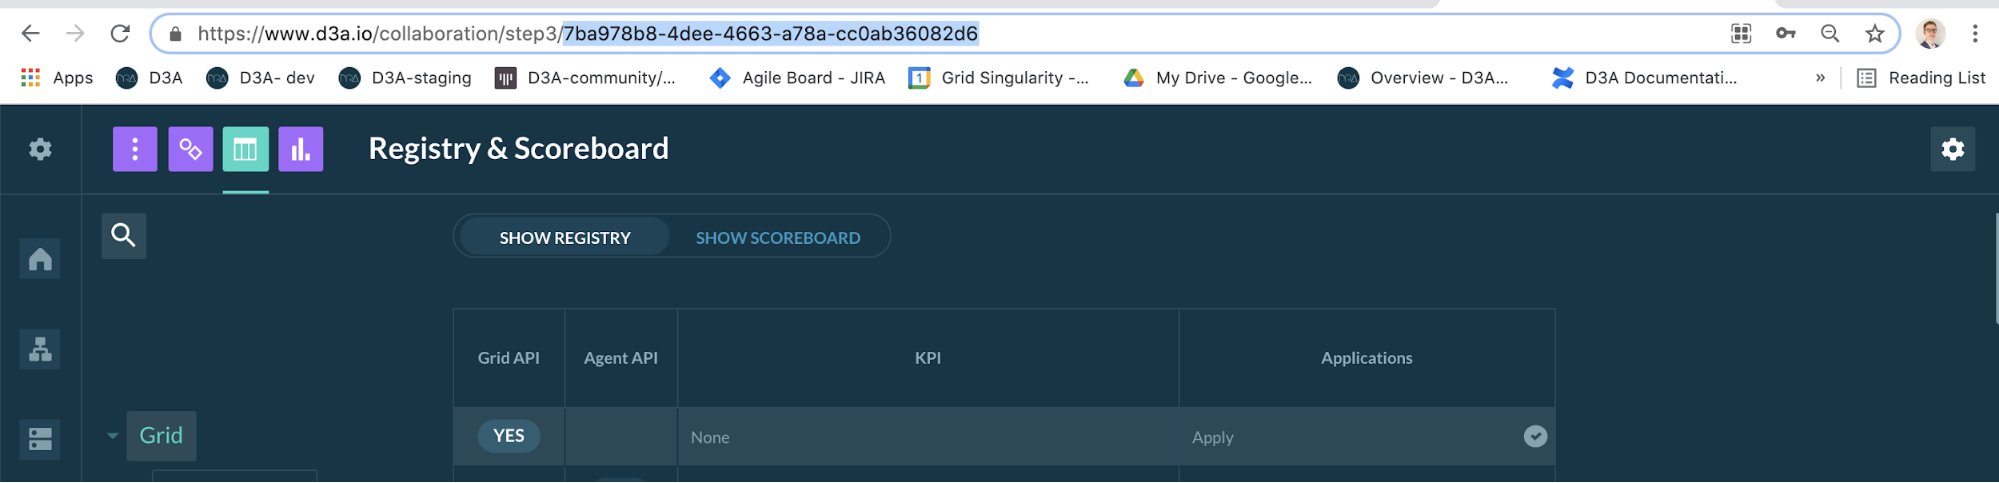
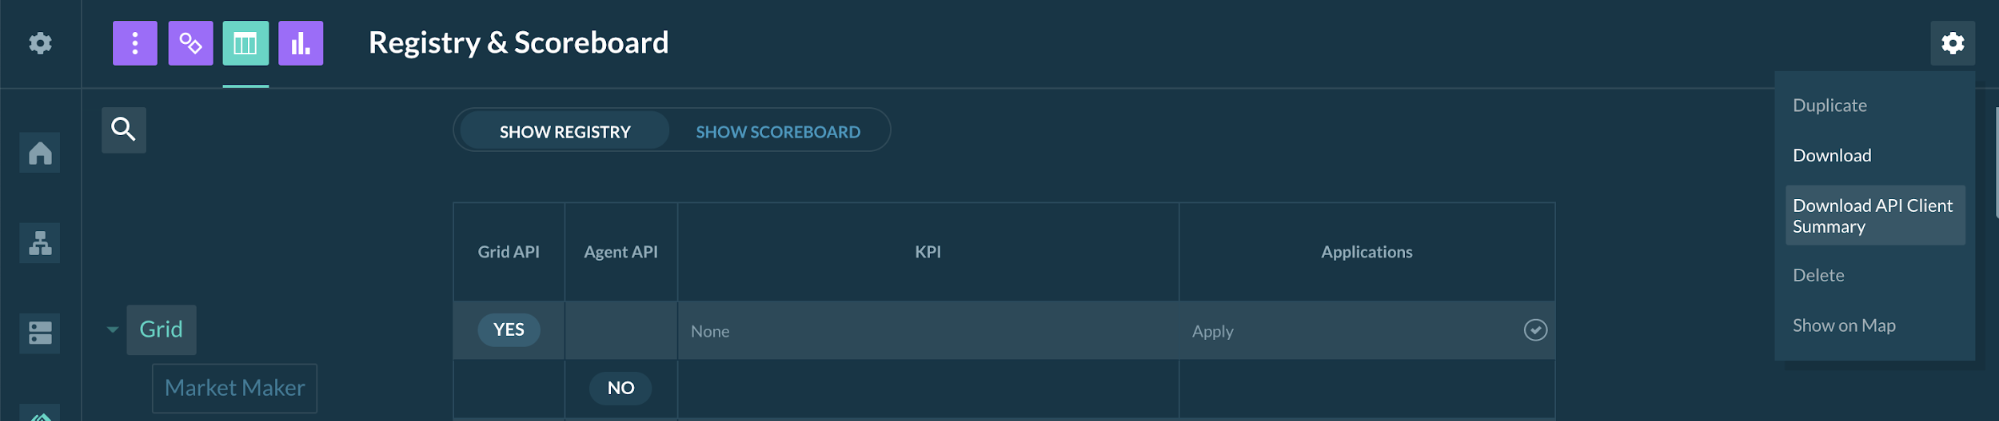
Deployed 34ab02a1 with MkDocs version: 1.0.4

diff --git a/api-overview/index.html b/api-overview/index.html
@@ -1583,7 +1583,7 @@
                 
                 <h2 id="definition">Definition<a class="headerlink" href="#definition" title="Permanent link">&para;</a></h2>
 <p>To enable users to interact with a running collaboration or a canary test network, two different application interfaces (APIs) are available. The <a href="../assets-api/">Asset API</a> allows the user to manage multiple energy assets by implementing custom trading strategies. The <a href="../grid-operator-api/">Grid Operator API</a> allows the user to manage multiple markets by implementing custom grid fee strategies. Both interfaces allow strategies to incorporate market and asset statistics. Two examples of template API scripts are available in the Grid Singularity’s GitHub repository: <a href="https://github.com/gridsingularity/d3a/blob/master/src/d3a/setup/odyssey_momentum/assets_api_template.py">Asset API</a> and <a href="https://github.com/gridsingularity/d3a/blob/master/src/d3a/setup/odyssey_momentum/markets_api_template.py">Grid Operator API</a>.  These two APIs interact with Grid Singularity simulations through the open source Grid Singularity’s <a href="https://github.com/gridsingularity/d3a-api-client">API client</a>. </p>
-<p><img alt="alt_text" src="../img/api-overview-0.png" /></p>
+<p><img alt="alt_text" src="../img/api-overview-1.png" /></p>
 <h2 id="api-client-installation">API Client Installation<a class="headerlink" href="#api-client-installation" title="Permanent link">&para;</a></h2>
 <p><em>Note:</em> If you are running the Grid Singularity energy exchange engine (D3A) using a virtual machine and <code>vagrant</code>, the latest <code>api-client</code> is already installed on your machine and you can skip to the <a href="./#launch-simulation">Launch Simulation</a> section below. If you are running the engine locally, please follow the following instructions.</p>
 <h3 id="install-redis-server-open-a-new-terminal-and-type">Install Redis server. Open a new terminal and type<a class="headerlink" href="#install-redis-server-open-a-new-terminal-and-type" title="Permanent link">&para;</a></h3>
@@ -1664,7 +1664,7 @@ initial_selling_rate=30,                                                        
 
 <p><em>For more information on launching a simulation on the backend please visit <a href="../general-settings/#simulation-launch">this page</a>.</em></p>
 <p>After few seconds, the simulation should begin, waiting for the API template as mentioned in the figure below:</p>
-<p><img alt="alt_text" src="../img/api-overview-1.png" /></p>
+<p><img alt="alt_text" src="../img/api-overview-2.png" /></p>
 <h2 id="initialise-and-start-the-api">Initialise and start the API :<a class="headerlink" href="#initialise-and-start-the-api" title="Permanent link">&para;</a></h2>
 <p>Before launching the API script, the user needs to adapt the following information in their script (script template available here) : </p>
 <h3 id="oracle-name">Oracle name<a class="headerlink" href="#oracle-name" title="Permanent link">&para;</a></h3>
@@ -1716,14 +1716,14 @@ storage_names = [&#39;Tesla Powerwall 3&#39;]
 </ol>
 <h4 id="simulation-configuration-file">Simulation configuration file:<a class="headerlink" href="#simulation-configuration-file" title="Permanent link">&para;</a></h4>
 <p>The simulation configuration file is a JSON format file downloadable on the User-Interface. It contains all the information about the simulation setup (username, simulation name and UUID, domain name, websocket domain name, global settings of the simulation and the registry, consisting of all the grid hierarchy including markets and assets and whether or not the user is connected to those). To download this file the user needs to go to the registry page of the relevant collaboration/CN and click on the top right edit icon and Download API Client Summary.</p>
-<p><img alt="alt_text" src="../img/api-overview-2.png" /></p>
+<p><img alt="alt_text" src="../img/api-overview-3.png" /></p>
 <p>To run the API agent you can run the following command by adapting the arguments to your case:</p>
 <div class="codehilite"><pre><span></span><code>d3a-api-client --log-level INFO run  --setup asset_api_template -u username -p password -i absolute_path/my_simulation_config.json 
 </code></pre></div>
 
 <h4 id="cli-command">CLI command:<a class="headerlink" href="#cli-command" title="Permanent link">&para;</a></h4>
 <p>Instead of passing the JSON file, the user can directly pass the relevant variables as arguments in the CLI commands. For that to work, users need to pass the domain name and websocket name (both are optional parameters and only relevant when connecting to specific domains) and the simulation_id. The simulation_id corresponds to the Universally Unique IDentifier. This token can be found in the URL of a collaboration or a Canary Network in the User Interface. </p>
-<p><img alt="alt_text" src="../img/api-overview-3.png" /></p>
+<p><img alt="alt_text" src="../img/api-overview-4.png" /></p>
 <p>To run the API agent you can run the following command by adapting the arguments to your case:</p>
 <div class="codehilite"><pre><span></span><code>d3a-api-client --log-level INFO run  --setup asset_api_template -u username -p password --simulation-id UUID
 </code></pre></div>
